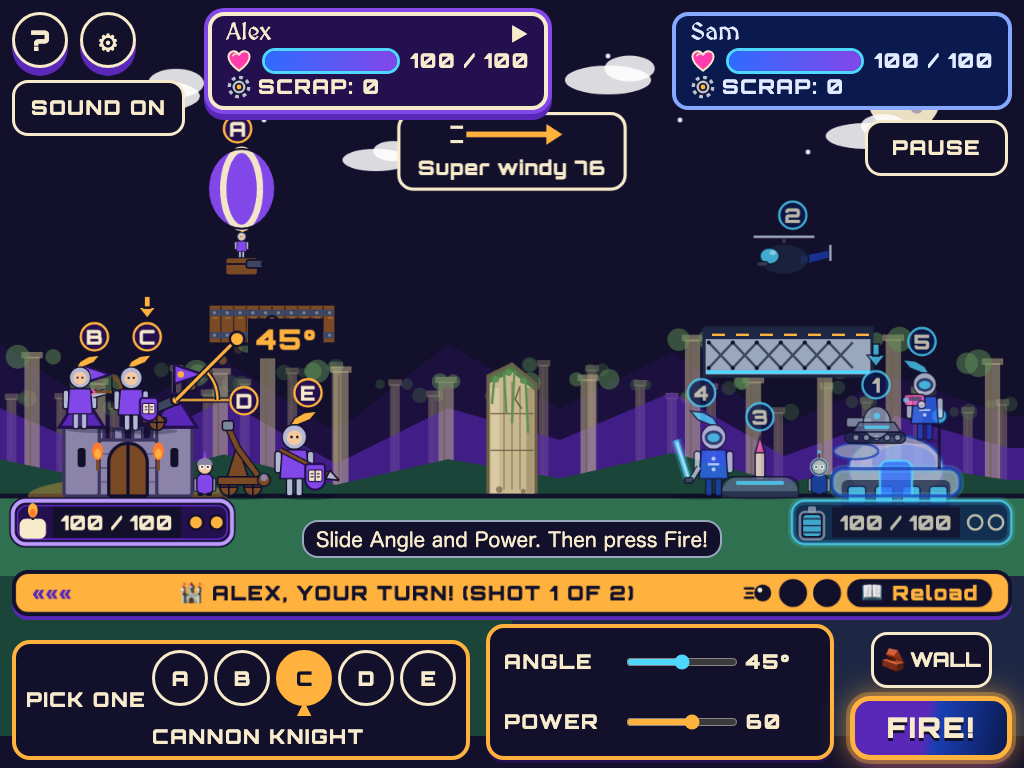
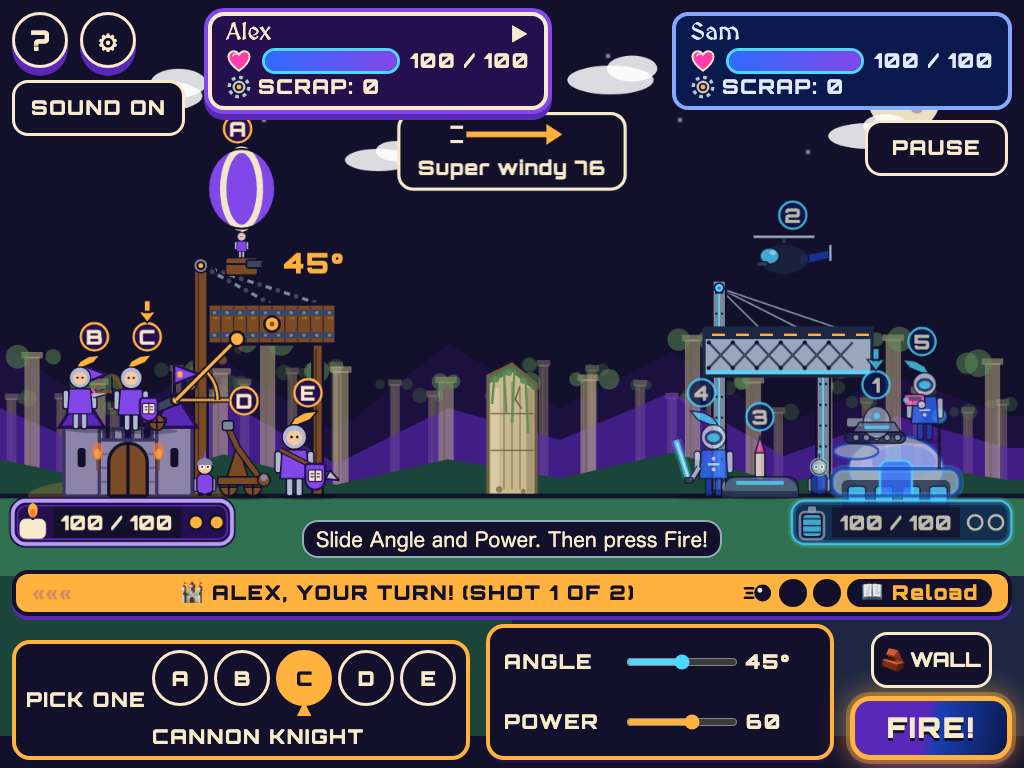
Hang the drawbridge and stand the Future bridge on pylons
The panel found both decks floating in the sky. Andy approved drawing
supports as decoration on 2026-10-24. The Drawbridge now hangs by two
chains from a gate post with a winch and rests on a wooden leg. The
Future bridge stands on two steel pylons, with cables from a tower.

Supports come from obstacleDecor and are marked solid: false. They never
change a collision polygon, shells fly through them, and layoutPaint
paints them before every solid shape, so each outline stays on top.
Tests check they stay in the world and above the ground line, use only
palette colors, and leave the silhouette rule intact for solid shapes.

diff --git a/src/scenes/battle/obstacleArt.ts b/src/scenes/battle/obstacleArt.ts
@@ -5,6 +5,12 @@
 // The rule that keeps the art honest: the first shape is the collision polygon itself, the last
 // is its outline, and every detail in between lies inside that polygon. A shell hits exactly
 // what a child sees. Details that would poke out are dropped (`keepInside`). No randomness.
+//
+// One documented exception (Andy approved it on 2026-10-24): the supports that hold up a floating
+// shape, the Drawbridge's chains, gate post and leg, and the Future bridge's pylons and cables.
+// They are decoration only (`solid: false`). They never change a collision polygon, they paint
+// before every solid shape (so each outline stays on top), they stay inside the world and never
+// go below the ground line. Shells fly straight through them.
 import { isBiomeId } from '../../game/battlefield';
 import { FORTS, SPOTS } from '../../game/config';
 import { isFortId } from '../../game/forts';
@@ -31,6 +37,9 @@ export type ArtShape =
   | { op: 'circle'; x: number; y: number; r: number; color: number; alpha: number }
   | { op: 'line'; a: Vec2; b: Vec2; width: number; color: number; alpha: number }
   | { op: 'outline'; pts: Vec2[]; width: number; color: number };
+
+/** A support drawn behind the solid shapes. Shells pass through it. */
+export type DecorShape = Exclude<ArtShape, { op: 'outline' }> & { solid: false };
 
 /** Outline width, the same 4px every obstacle had before. */
 export const OUTLINE_W = 4;
@@ -581,3 +590,145 @@ export const layoutObstacleArt = (layout: BattleLayout): ArtShape[][] => {
   const kinds = obstacleKinds(layout);
   return layout.terrain.obstacles.map((o, i) => obstacleArt(kinds[i]!, o));
 };
+
+// ---------- Supports (decoration only, not solid) ----------
+
+const decor = (s: Exclude<ArtShape, { op: 'outline' }>): DecorShape => ({ ...s, solid: false });
+
+/** Supports are thinner than a solid outline, so they never read as a wall. */
+const SUPPORT_EDGE = 3;
+
+/** A post from `top` down to the ground: an ink edge with a fill inside. */
+function post(x: number, w: number, top: number, ground: number, fill: number): ArtShape[] {
+  return [
+    rect(
+      x - SUPPORT_EDGE,
+      top - SUPPORT_EDGE,
+      w + SUPPORT_EDGE * 2,
+      ground - top + SUPPORT_EDGE,
+      C.ink,
+    ),
+    rect(x, top, w, ground - top, fill),
+  ];
+}
+
+/** An iron ring: the round end of a chain or a cable. */
+const ring = (x: number, y: number, r: number): ArtShape[] => [
+  circle(x, y, r, C.ink),
+  circle(x, y, r - 2, C.metal),
+  circle(x, y, Math.max(1.5, r - 4.5), C.ink),
+];
+
+/** A chain from a to b: short rounded links, every other one seen side-on, an iron ring each end. */
+function chain(a: Vec2, b: Vec2): ArtShape[] {
+  const dx = b.x - a.x;
+  const dy = b.y - a.y;
+  const len = Math.hypot(dx, dy) || 1;
+  const ux = dx / len;
+  const uy = dy / len;
+  const out: ArtShape[] = [line(a.x, a.y, b.x, b.y, 2, C.ink, 0.6)];
+  const step = 12;
+  for (let d = 8, i = 0; d + 8 <= len - 6; d += step, i++) {
+    const cx = a.x + ux * d;
+    const cy = a.y + uy * d;
+    if (i % 2 === 0) {
+      out.push(line(cx - ux * 6, cy - uy * 6, cx + ux * 6, cy + uy * 6, 8, C.ink));
+      out.push(line(cx - ux * 4, cy - uy * 4, cx + ux * 4, cy + uy * 4, 4, C.metal));
+    } else {
+      out.push(circle(cx, cy, 5, C.ink), circle(cx, cy, 3, C.metalDark));
+    }
+  }
+  return [...out, ...ring(a.x, a.y, 6), ...ring(b.x, b.y, 7)];
+}
+
+/** A thin steel cable with an ink edge, so it shows against the sky. */
+const cable = (a: Vec2, b: Vec2): ArtShape[] => [
+  line(a.x, a.y, b.x, b.y, 4, C.ink),
+  line(a.x, a.y, b.x, b.y, 2, C.metal),
+];
+
+const SUPPORTS: Partial<Record<ObstacleKind, (b: Box, ground: number) => ArtShape[]>> = {
+  /**
+   * The Drawbridge hangs from a gate post by the castle: two chains run from the post's winch to
+   * the deck's top corners, and one wooden leg props up the free end.
+   */
+  drawbridge: (b, ground) => {
+    const postW = 14;
+    const postX = b.minX - postW - 2;
+    const postTop = b.minY - 56;
+    const winch = { x: postX + postW / 2, y: postTop + 8 };
+    const legW = 10;
+    const legX = b.maxX - 28;
+    return [
+      ...post(postX, postW, postTop, ground, C.wood),
+      line(postX + 4, postTop + 18, postX + 4, ground - 6, 2, C.ink, 0.45),
+      ...post(legX, legW, b.maxY - 4, ground, C.wood),
+      line(legX + 3, b.maxY + 6, legX + 3, ground - 6, 2, C.ink, 0.45),
+      ...chain({ x: b.maxX - 8, y: b.minY + 4 }, winch),
+      ...chain({ x: (b.minX + b.maxX) / 2 + 6, y: b.minY + 4 }, winch),
+      ...ring(winch.x, winch.y, 10),
+      circle(winch.x, winch.y, 3, C.gold),
+    ];
+  },
+  /**
+   * The Future bridge stands on two steel pylons. The near one rises above the deck as a tower,
+   * and three cables hang from its glowing top down to the road.
+   */
+  bridgeDeck: (b, ground) => {
+    const w = 14;
+    const towerX = b.minX + 12;
+    const towerTop = b.minY - 58;
+    const farX = b.maxX - 68;
+    const top = { x: towerX + w / 2, y: towerTop + 8 };
+    const out: ArtShape[] = [
+      ...[0.35, 0.6, 0.85].flatMap((f) =>
+        cable(top, { x: b.minX + (b.maxX - b.minX) * f, y: b.minY + 4 }),
+      ),
+    ];
+    for (const [x, from] of [
+      [towerX, towerTop],
+      [farX, b.maxY - 4],
+    ] as const) {
+      out.push(...post(x, w, from, ground, C.metal));
+      out.push(line(x + w / 2, from + 6, x + w / 2, ground - 10, 2, C.glow));
+      for (let y = from + 14; y < ground - 14; y += 26)
+        out.push(circle(x + 3.5, y, 1.5, C.ink), circle(x + w - 3.5, y, 1.5, C.ink));
+      out.push(
+        rect(x - 8, ground - 8, w + 16, 8, C.ink),
+        rect(x - 6, ground - 6, w + 12, 6, C.hullDark),
+      );
+    }
+    out.push(
+      circle(top.x, top.y, 7, C.ink),
+      circle(top.x, top.y, 5, C.glow),
+      circle(top.x, top.y, 2, C.neon),
+    );
+    return out;
+  },
+};
+
+/**
+ * The supports for one obstacle: decoration only (`solid: false`). Most shapes stand on the
+ * ground and need none. Never changes the polygon. Same input, same shapes.
+ */
+export function obstacleDecor(kind: ObstacleKind, poly: Polygon, groundY: number): DecorShape[] {
+  const draw = SUPPORTS[kind];
+  if (!draw) return [];
+  return draw(boundsOf(poly), groundY).map((s) => decor(s as Exclude<ArtShape, { op: 'outline' }>));
+}
+
+/** The supports of every obstacle of a layout, one list per obstacle, in obstacle order. */
+export const layoutObstacleDecor = (layout: BattleLayout): DecorShape[][] => {
+  const kinds = obstacleKinds(layout);
+  const ground = layout.terrain.ground[0]?.y ?? layout.height;
+  return layout.terrain.obstacles.map((o, i) => obstacleDecor(kinds[i]!, o, ground));
+};
+
+/**
+ * Everything to paint for a layout's obstacles, in order: every support first (so no support
+ * ever sits on a solid shape or its outline), then each solid shape from `obstacleArt`.
+ */
+export const layoutPaint = (layout: BattleLayout): ArtShape[][] => [
+  ...layoutObstacleDecor(layout).filter((d) => d.length > 0),
+  ...layoutObstacleArt(layout),
+];

diff --git a/tests/scenes/battle/obstacleArt.test.ts b/tests/scenes/battle/obstacleArt.test.ts
@@ -7,9 +7,13 @@ import type { FortIdValue, Polygon, SpotIdValue } from '../../../src/game/types'
 import { BIOME_LOOKS } from '../../../src/scenes/battle/biomeArt';
 import {
   OUTLINE_W,
+  boundsOf,
   insidePolygon,
   layoutObstacleArt,
+  layoutObstacleDecor,
+  layoutPaint,
   obstacleArt,
+  obstacleDecor,
   obstacleKinds,
   shapeInside,
   shapePoints,
@@ -192,6 +196,88 @@ describe('every obstacle looks like something, not a dark box', () => {
   it('is the same every time (no randomness)', () => {
     for (const kind of ALL_KINDS)
       expect(obstacleArt(kind, sample[kind])).toEqual(obstacleArt(kind, sample[kind]));
+  });
+});
+
+describe('supports are decoration only (owner approved, 2026-10-24)', () => {
+  const groundOf = (l: { terrain: { ground: ReadonlyArray<{ y: number }> } }) =>
+    l.terrain.ground[0]!.y;
+
+  it('the drawbridge and the Future bridge have visible supports; shapes on the ground need none', () => {
+    const l = buildLayout({ biome: 'aspen', spot: 'bridge', fort: 'drawbridge' });
+    const decor = layoutObstacleDecor(l);
+    const kinds = obstacleKinds(l);
+    expect(decor).toHaveLength(l.terrain.obstacles.length);
+    kinds.forEach((k, i) => {
+      if (k === 'drawbridge' || k === 'bridgeDeck')
+        expect(decor[i]!.length, k).toBeGreaterThanOrEqual(6);
+      else expect(decor[i], k).toEqual([]);
+    });
+    for (const kind of ['tower', 'foodTruck', 'fortRock', 'villageWall', 'stoneWall'] as const)
+      expect(obstacleDecor(kind, l.terrain.obstacles[0]!, groundOf(l)), kind).toEqual([]);
+  });
+
+  it('each support reaches from the ground to the floating shape, so it looks held up', () => {
+    for (const fort of [null, 'drawbridge'] as const) {
+      const l = buildLayout({ biome: 'cherry', spot: 'bridge', fort });
+      const ground = groundOf(l);
+      layoutObstacleDecor(l).forEach((shapes, i) => {
+        if (shapes.length === 0) return;
+        const poly = l.terrain.obstacles[i]!;
+        const b = boundsOf(poly);
+        const pts = shapes.flatMap(shapePoints);
+        // Something stands on the ground line.
+        expect(Math.max(...pts.map((p) => p.y))).toBeCloseTo(ground, 5);
+        // Something touches the shape itself (a chain end, a cable end, the top of a post).
+        expect(pts.some((p) => insidePolygon(poly, p, 1))).toBe(true);
+        // And something rises above the shape (a gate post or a pylon for the chains or cables).
+        expect(Math.min(...pts.map((p) => p.y))).toBeLessThan(b.minY);
+      });
+    }
+  });
+
+  for (const { name, l } of layouts()) {
+    it(`${name}: decoration is marked not solid, stays in the world and above the ground`, () => {
+      const ground = groundOf(l);
+      for (const shapes of layoutObstacleDecor(l))
+        for (const s of shapes) {
+          expect(s.solid, name).toBe(false);
+          expect(s.op, name).not.toBe('outline');
+          for (const p of shapePoints(s)) {
+            expect(p.x, `${name} ${s.op}`).toBeGreaterThanOrEqual(0);
+            expect(p.x, `${name} ${s.op}`).toBeLessThanOrEqual(l.width);
+            expect(p.y, `${name} ${s.op}`).toBeGreaterThanOrEqual(0);
+            expect(p.y, `${name} ${s.op} below the ground`).toBeLessThanOrEqual(ground + 1e-9);
+          }
+          expect(ALLOWED.has(s.color), `${name} 0x${s.color.toString(16)}`).toBe(true);
+        }
+    });
+
+    it(`${name}: decoration paints first, so every solid shape and its outline sit on top`, () => {
+      const paint = layoutPaint(l);
+      const decor = layoutObstacleDecor(l).filter((d) => d.length > 0);
+      const art = layoutObstacleArt(l);
+      expect(paint).toEqual([...decor, ...art]);
+      // The solid groups still start with the polygon and end with its outline.
+      for (const group of paint.slice(decor.length)) {
+        expect(group[0]!.op).toBe('poly');
+        expect(group[group.length - 1]!.op).toBe('outline');
+      }
+    });
+  }
+
+  it('never moves a solid shape: the polygons and the layout stay exactly the same', () => {
+    const l = buildLayout({ biome: 'temple', spot: 'bridge', fort: 'drawbridge' });
+    const before = JSON.parse(JSON.stringify(l)) as unknown;
+    const frozen = l.terrain.obstacles.map((o) => Object.freeze(o.map((p) => Object.freeze(p))));
+    frozen.forEach((poly, i) => obstacleDecor(obstacleKinds(l)[i]!, poly, groundOf(l)));
+    layoutPaint(l);
+    expect(JSON.parse(JSON.stringify(l))).toEqual(before);
+  });
+
+  it('is the same every time (no randomness)', () => {
+    const l = buildLayout({ biome: 'aspen', spot: 'bridge', fort: 'drawbridge' });
+    expect(layoutObstacleDecor(l)).toEqual(layoutObstacleDecor(l));
   });
 });
 

diff --git a/src/scenes/battle/backdrop.ts b/src/scenes/battle/backdrop.ts
@@ -1,12 +1,13 @@
 // Battle backdrop: a dusk sky that runs from deep blue to a warm glow, twinkling stars, drifting
 // clouds, three layers of parallax hills, the ground, and every solid shape from the layout
-// (painted from obstacleArt.ts, so the art matches exactly where shells hit).
+// (painted from obstacleArt.ts, so the art matches exactly where shells hit; only the supports
+// under a floating shape are decoration).
 // Original shapes only. Nothing here is scary.
 import Phaser from 'phaser';
 import type { BattleLayout, Polygon } from '../../game/types';
 import { aspenLayers, type AspenLayer } from './aspens';
 import { biomeLook } from './biomeArt';
-import { layoutObstacleArt, type ArtShape } from './obstacleArt';
+import { layoutPaint, type ArtShape } from './obstacleArt';
 import { BATTLE_BAND } from '../../game/config';
 import { ART, PALETTE } from './visual';
 
@@ -152,7 +153,8 @@ export function drawBackdrop(scene: Phaser.Scene, layout: BattleLayout): Backdro
   g.fillRect(width / 2, height, width / 2, BATTLE_BAND);
   // Obstacle 0 is the biome's middle shape. Then Team Future's spot (tower, bridge deck or food
   // truck) and Team Past's castle place (rock, village wall or drawbridge), each with its own look.
-  for (const shapes of layoutObstacleArt(layout)) paintArt(g, shapes);
+  // The supports of a floating shape (chains, posts, pylons) paint first and are not solid.
+  for (const shapes of layoutPaint(layout)) paintArt(g, shapes);
   const top = layout.terrain.ground[0];
   const topRight = layout.terrain.ground[1];
   if (top && topRight) {

diff --git a/docs/BUILD.md b/docs/BUILD.md
@@ -128,7 +128,7 @@ Status: built, except that the base builder is on for everyone (`BASE_BUILDER.en
 - Base Deployment: three Austin spots (skyscraper top, bridge underside, food truck pavilion). The spot changes launch height and cover. Test: each spot has a distinct elevation and a reachable shot path.
   - **Rules built, picked on the Battle Plan**: `src/game/spots.ts` and the `SPOTS` block in `src/game/config.ts`. `layoutForSpot(null)` is exactly the Phase 1 layout. Launch height (y): skyscraper 310, food truck 470, bridge 530. The bridge deck blocks flat shots, so players lob. `shiftForSpot` moves the Future fighters with their base. Tests: `tests/game/spots.test.ts`.
 - Castle places for Team Past (the mirror of the Austin spots): Hill Fort (high, on a solid rock), Village Wall (middle, a low stone wall in front) and Drawbridge (low, a raised oak drawbridge that stops flat shots). **Built, picked on the Battle Plan.** Rules: `src/game/forts.ts` and the `FORTS` block in `src/game/config.ts` (same shape as `SPOTS`: `shift`, `base`, `launchOrigin`, `obstacles`). `layoutForFort(null)` is exactly the Phase 1 layout in the rules code, but the live game always passes a castle place. Launch height (y): Hill Fort 310, Village Wall 450, Drawbridge 500. Village Wall is the default (`DEFAULT_PLAN.fort`, owner decision 2026-10-24), the mirror of Food Trucks for Team Future. A plan saved before castle places existed, or with an unknown value, loads at Village Wall, and a new family starts with it picked. Village Wall keeps the Phase 1 castle spot and adds a low stone wall in front. The Archer (B) rides the castle like Team Future's riders. Tests: `tests/game/forts.test.ts` (distinct heights, reachable shots for both teams with every spot and biome, the default field in every biome and spot, cover, old plans), `tests/ui/plan.test.ts`, `tests/storage/plan.test.ts`, `e2e/phase2.spec.ts`.
-- Obstacle art. Every solid shape is painted by `src/scenes/battle/obstacleArt.ts` (pure, no Phaser): the collision polygon is the silhouette, the details sit inside it, and its outline is drawn last. `tests/scenes/battle/obstacleArt.test.ts` checks every biome, spot and castle place. The Stone Wall ability uses the same recipe.
+- Obstacle art. Every solid shape is painted by `src/scenes/battle/obstacleArt.ts` (pure, no Phaser): the collision polygon is the silhouette, the details sit inside it, and its outline is drawn last. `tests/scenes/battle/obstacleArt.test.ts` checks every biome, spot and castle place. The Stone Wall ability uses the same recipe. One exception, approved by Andy on 2026-10-24: a floating shape gets supports so it does not hang in the sky. The Drawbridge hangs by two chains from a gate post and rests on a wooden leg; the Future bridge stands on two steel pylons with cables from a tower. Supports are decoration only (`obstacleDecor`, `solid: false`): they never change a collision polygon, shells pass through them, they paint behind every solid shape and its outline, and they stay inside the world and above the ground line. The tests check all of that.
 - Base placement (castle and secret base from bricks): **screen and rules built, on for everyone (2026-10-23).** Before a battle a player drags bricks from a tray onto a build plot, turns them, stacks them, and puts them on walls. Each player keeps three saved bases per side and picks one. A locked piece costs Scrap. Rules: `src/game/baseBuilder.ts`. Screen: `src/ui/baseBuilderScreen.ts`, `baseBuilderArt.ts`, `src/styles/baseBuilder.css`. Numbers: `BASE_BUILDER` in `src/game/config.ts`. With the builder on, the Camp has one **Build Base** button per side that opens it (it replaces the old Upgrade Base shop screen, which still shows under the name Build Base while the builder is off). Players spend Scrap there on locked pieces and weapons. It stays off (`BASE_BUILDER.enabled = false`) until the panel has reviewed it. Try it with `?builder=1`. Tests: `tests/game/baseBuilder.test.ts`, `tests/game/weaponSpots.test.ts`, `unlockPiece.test.ts`, `tests/storage/bases.test.ts`, `tests/ui/baseBuilder.test.ts`, `e2e/base-builder.spec.ts`, `e2e/base-builder-touch.spec.ts`.
   - **How battle reads the chosen base (rules built, flag off).** `chosenBase(bases, name, team)` returns the bricks of the slot the player picked, already cleaned, and `chosenBaseFor` in `src/game/builtBase.ts` bundles it with `chosenSpots` as a `ChosenBase`. A match takes one per team in `MatchOptions.bases` when `baseInBattle` is on (`BASE_IN_BATTLE`, default off, needs character health). The match converts the plot to the battlefield (scale and mirror per team), keeps a separate hit point count per brick (starting at the saved `hp`) and never changes the saved base. A brick at 0 hit points falls away, takes the bricks it was holding up with it, and the shot result reports it so the scene can puff it. Full rules and the damage table: docs/GAME_SPEC.md "Built bases in battle". The scene does not draw it yet.
   - **How battle will read the chosen base (a later task).** `chosenBase(bases, name, team)` in `src/game/baseBuilder.ts` returns the bricks of the slot the player picked, already cleaned (unknown or overlapping bricks are dropped). Each brick has a piece id, a place on the 24 by 12 grid (`x`, `y` in cells, `ox`, `oy` in eighths of a cell), a turn (`rot`) and `hp`, the hit points it starts with (the piece's full strength, from `BASE_BUILDER.hp`). `rectOf(brick)` gives its box. Battle should read it once when the match is built, draw each brick at its box, and keep a separate hit-point count per brick for the match. Saved bases must never be changed by a match. A brick at 0 hit points falls away with a puff, and the base health bar can follow the total of the bricks. The scene and the damage rules are not changed by this task.

diff --git a/ARCHITECTURE.md b/ARCHITECTURE.md
@@ -48,7 +48,7 @@ The Camp hawk is a small 3D solid (`src/ui/hawkModel.ts`: body, head, beak, eyes
 
 ## Battle Plan, biomes, ammo and evasion (Phase 2, wired in)
 - **Battlefield.** `src/game/battlefield.ts` `buildLayout({ biome, spot, fort })` builds the `BattleLayout`: obstacle 0 is the biome's middle shape (`BIOMES` in config; aspen is the Phase 1 hill), then the spot's shapes, then the castle place's shapes. The layout carries `biome`, `spot`, `fort` and `baseShift` (both teams). A `BattlePlan` always has a `fort`: `normalizePlan` gives a plan saved before it existed Village Wall. `buildLayout` still accepts a missing or null `fort` (the Phase 1 castle) for tests and old callers.
-- **Obstacle art.** `src/scenes/battle/obstacleArt.ts` (pure) names each obstacle's look from the layout (`obstacleKinds`) and returns its shapes (`obstacleArt`): the exact collision polygon, details kept strictly inside it, then its outline. `backdrop.ts` paints them with `paintArt`; `BattleScene.setWalls` paints the Stone Wall ability with the same recipe. A fighter standing on its base (`ridesBase` in `units.ts`) moves with it, and `firingOrigin` applies the shift, so the shot, the bot and the guide agree. The scene draws the biome backdrop (`src/scenes/battle/biomeArt.ts`) and shifts those fighters.
+- **Obstacle art.** `src/scenes/battle/obstacleArt.ts` (pure) names each obstacle's look from the layout (`obstacleKinds`) and returns its shapes (`obstacleArt`): the exact collision polygon, details kept strictly inside it, then its outline. One documented exception to "the picture equals the solid shape" (Andy approved it on 2026-10-24): the supports that hold up a floating shape (`obstacleDecor`: the Drawbridge's gate post, two chains and a leg; the Future bridge's two pylons and its cables) are decoration, marked `solid: false`. They never change a collision polygon, shells fly through them, they stay inside the world and never go below the ground line, and `layoutPaint` paints them before every solid shape, so each outline stays on top. `backdrop.ts` paints `layoutPaint` with `paintArt`; `BattleScene.setWalls` paints the Stone Wall ability with the same recipe. A fighter standing on its base (`ridesBase` in `units.ts`) moves with it, and `firingOrigin` applies the shift, so the shot, the bot and the guide agree. The scene draws the biome backdrop (`src/scenes/battle/biomeArt.ts`) and shifts those fighters.
 - **Ammo.** Special kinds are unlocked per player and side on the Battle Plan (`unlockAmmo`, saved as `loadout[team].ammo`). `MatchOptions.ammo` lists the kinds each side owns. The match keeps the loaded kind and the shots left (`selectAmmo`, snapshot `ammo` and `ammoLeft`). Firing a special kind uses one. At 0 it goes back to Standard. Standard changes nothing.
 - **Evasion.** `src/game/evasion.ts` is a small cycle per team: ready → armed (this turn) → active (the other team's next turn) → recharging or used. `armEvasion` and `disarmEvasion` work only while aiming and are free. Team Past's Stone Wall adds a wall obstacle (`EVASION.barricade.wall`) for the whole enemy turn, once per match (`currentLayout()`). Team Future's Hoverboard Dodge makes the first damaging hit of the enemy turn miss (`dodged: true`), before the force field, and is ready again 2 own turns after it was armed. Misuse throws (`IllegalTransitionError` out of phase, `EvasionError` when not ready).
 - **Screens.** The HUD gear (`src/ui/hudGear.ts`) floats by Fire: an Ammo button (hidden until a kind is owned) and the ability button (`aria-pressed` when armed). With no room it shows icons only. Chrono says a line with a caption when an ability is armed.
